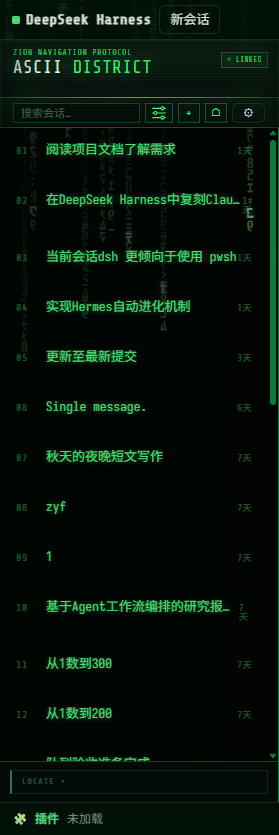
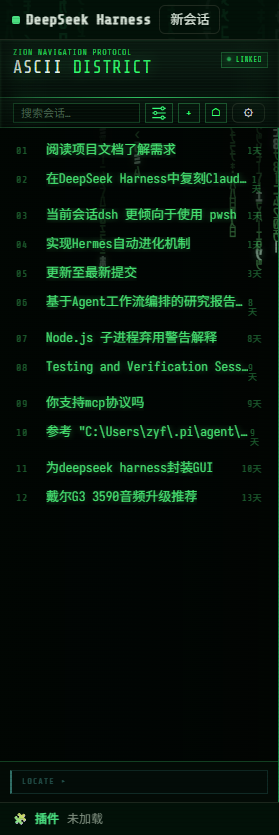
fix(sidebar): City Index 行距/选中色还原偏差 + 删 BAY 前缀
- 行距 51.9→30.9px:vendor Menu anchor wrapper(inline span)在 .map-row 内
  产生 strut 撑高 21px;.map-row > span { display:contents } 收口
- 选中字色未变深:is-current 规则落地时被简写为 2 类,color 输给 3 类基础
  规则(background 靠 !important 幸存);恢复 demo 的 .map-body.grouped/.flat
  双作用域 4 类写法(color/age/idx/cur 全量)
- .map-district-head 删 BAY 0x 前缀只显工作区名(用户裁决),字号 9→10.8px(+20%)
- 排查沉淀:无头窗口 color transition 被 occlusion 冻结会显假绿,泵帧后
  方为真值(非 CSS bug)
- 验证:computed 实测三项全过;形态 7 态重截紧凑达标;sidebar-drag
  fixture+real 7/7、workspace-actions 8/8×2、checklist 24/24

diff --git a/renderer/src/styles/sidebar.css b/renderer/src/styles/sidebar.css
@@ -405,7 +405,7 @@
 }
 .map-session-list { margin: 0; padding: 0; list-style: none; }
 
-/* 分组样式:BAY 章标题 + 缩进会话项;明度阶梯 标题100/章节55/时间与序号38 */
+/* 分组样式:章标题(只显工作区名,BAY 前缀 2026-08-28 按用户裁决删除)+ 缩进会话项;明度阶梯 标题100/章节55/时间与序号38 */
 .map-body.grouped .map-district-head {
   width: 100%;
   padding: 14px 12px 6px;
@@ -416,7 +416,7 @@
   background: none;
   cursor: pointer;
   color: rgba(70, 229, 114, 0.55);
-  font: 9px/1 var(--display);
+  font: 10.8px/1 var(--display); /* 工作区名较 demo 9px 增大 20%(用户裁决) */
   letter-spacing: 0.3em;
   text-transform: uppercase;
   text-align: left;
@@ -489,8 +489,11 @@
   text-shadow: none;
 }
 
-/* 终端选中框(两样式同款):中绿条 rgb(48,152,88) + 低对比绿横纹 + 亮边,文字深绿近黑 */
-.map-session-button.is-current {
+/* 终端选中框(两样式同款):中绿条 rgb(48,152,88) + 低对比绿横纹 + 亮边,文字深绿近黑;
+   必须挂在 .map-body.grouped/.flat 双作用域下(4 类)——简写成 .map-session-button.is-current(2 类)
+   会被基础规则的 color 压制(2026-08-28 实测选中行文字不变深的根因) */
+.map-body.grouped .map-session-button.is-current,
+.map-body.flat .map-session-button.is-current {
   background:
     repeating-linear-gradient(0deg, rgba(32, 144, 72, 0.9) 0 1px, transparent 1px 3px),
     rgb(48, 152, 88) !important;
@@ -498,10 +501,11 @@
   box-shadow: inset 0 0 0 1px rgba(140, 255, 175, 0.8);
   text-shadow: none;
 }
-.map-session-button.is-current .cur { display: inline; }
+.map-body.flat .map-session-button.is-current .cur { display: inline; }
 .map-body.grouped .map-session-button.is-current .cur { display: none; }
-.map-session-button.is-current .age,
-.map-session-button.is-current .idx { color: rgba(2, 24, 4, 0.7); text-shadow: none; }
+.map-body.grouped .map-session-button.is-current .age,
+.map-body.flat .map-session-button.is-current .age,
+.map-body.flat .map-session-button.is-current .idx { color: rgba(2, 24, 4, 0.7); text-shadow: none; }
 
 /* hover 分层:hover 只给 4% 浅底,选中行 hover 保持选中框 */
 .map-body.grouped .map-session-button:hover,
@@ -521,6 +525,10 @@
 
 /* 行容器:caret / ⋯ / 拖拽指示线 */
 .map-row { position: relative; }
+/* vendor Menu 的 anchor wrapper(span._root_*)是 .map-row 的 in-flow inline 子级,
+   会产生一个继承行高的 strut 把行撑高 21px(2026-08-28 实测行距 51.9 vs demo 30.9 的根因);
+   display:contents 让它不生成盒子,absolute 的 ⋯ 按钮包含块仍是 .map-row */
+.map-row > span { display: contents; }
 .map-caret {
   position: absolute;
   left: 6px;

diff --git a/renderer/src/ui/sidebar-city/CityIndex.tsx b/renderer/src/ui/sidebar-city/CityIndex.tsx
@@ -30,7 +30,7 @@ interface CityIndexProps {
   selectedSessionId: string | null
   reduced: boolean
   onSelectSession: (id: string) => void
-  /** LOCATE / BAY 头:跳相机到指定工作区并关闭索引。 */
+  /** LOCATE / 章标题:跳相机到指定工作区并关闭索引。 */
   onLocateWorkspace: (workspaceId: string) => void
   selectedWorkspaceId: string | null
 }
@@ -235,7 +235,7 @@ export function CityIndex({
             })}
           </ul>
         ) : (
-          model.map((ws, wsIndex) => {
+          model.map((ws) => {
             const collapsed = expandedGroups[ws.id] !== true && ws.sessions.length > COLLAPSED_SESSION_LIMIT
             const visible = collapsed ? ws.sessions.slice(0, COLLAPSED_SESSION_LIMIT) : ws.sessions
             const marker = dropMarker !== null && dropMarker.id === ws.id ? dropMarker.half : undefined
@@ -264,7 +264,7 @@ export function CityIndex({
                   onDrop={(e) => { commitWorkspaceDrop(e, ws.id) }}
                   onClick={() => onLocateWorkspace(ws.id)}
                 >
-                  {`BAY ${String(wsIndex + 1).padStart(2, '0')} · ${ws.name}`}
+                  {ws.name}
                 </button>
                 <ul className="map-session-list" role="group" aria-label={ws.name}>
                   {visible.map(session => renderRow(ws, session))}
